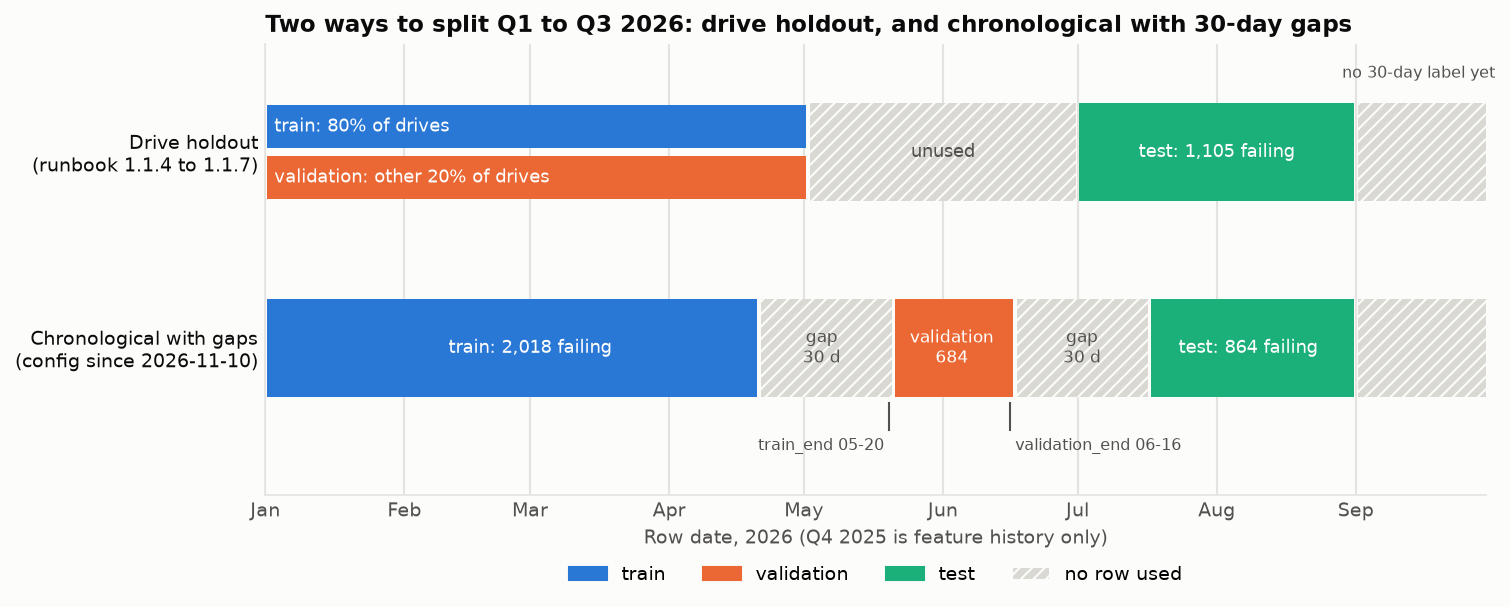
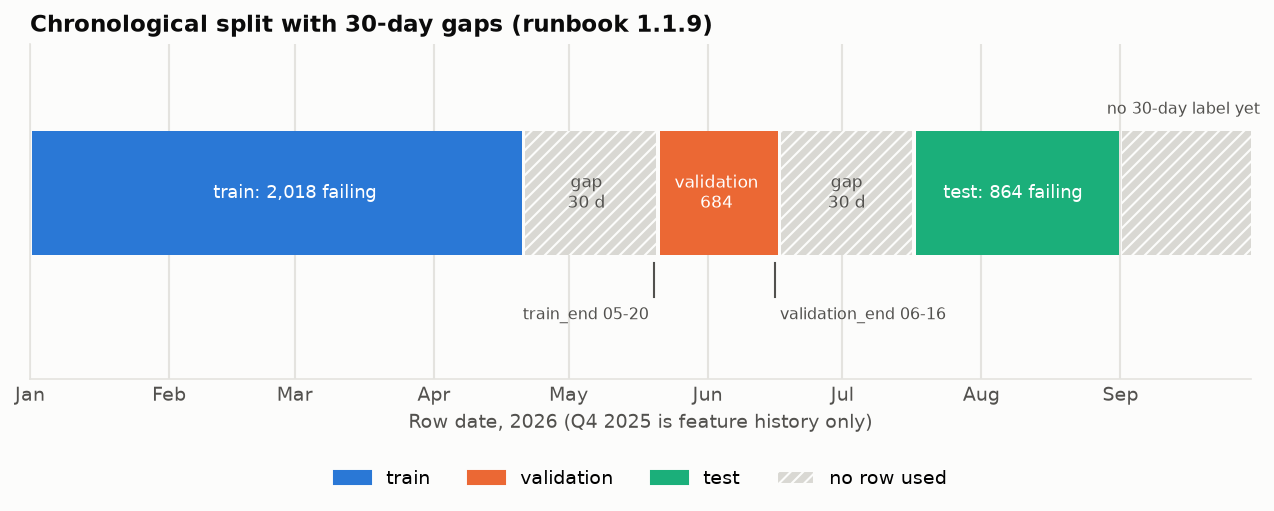
Figures: timeline shows only the chronological run (1.1.9); train figures and alt text relinked under docs/figures

diff --git a/scripts/plot_chrono_split.py b/scripts/plot_chrono_split.py
@@ -2,8 +2,8 @@
 
 Five figures, drawn from files the run already wrote (no model is scored, no test row is read):
 
-- `chrono_split_timeline.png`: the drive-holdout design of sections 1.1.4 to 1.1.7 against the
-  chronological split with gaps, on one date axis. Dates and failing-drive counts are the ones
+- `chrono_split_timeline.png`: the chronological split with gaps (runbook 1.1.9) on a date
+  axis. Dates and failing-drive counts are the ones
   in runbook 1.1.8 / 1.1.9 (counted from the 30-day label table on 2026-11-10).
 - `chrono_precision_recall.png`: precision against recall at the recall levels of
   `data/audit/stack_chrono_h30/tables.md` (test, drive level, mean of 3 seeds) for Stage 1 alone,
@@ -75,68 +75,37 @@ def _span(ax: plt.Axes, y: float, h: float, start: dt.date, end: dt.date, **kw) 
 
 
 def timeline(path: Path) -> None:
-    fig, ax = plt.subplots(figsize=(10.5, 3.9))
+    fig, ax = plt.subplots(figsize=(10.5, 2.9))
     _style(ax)
     ax.grid(axis="y", visible=False)
     ax.grid(axis="x", color=GRID, linewidth=1)
 
-    def hatched(y, h, start, end):
-        _span(ax, y, h, start, end, color=UNUSED, hatch="////", edgecolor=SURFACE)
+    def hatched(start, end):
+        _span(ax, 0, 0.5, start, end, color=UNUSED, hatch="////", edgecolor=SURFACE)
 
-    # Row 1: the drive-holdout design. Train and validation share dates (different drives).
-    y1 = 1.0
-    _span(ax, y1 + 0.13, 0.22, D(2026, 1, 1), D(2026, 5, 1), color=BLUE)
-    _span(ax, y1 - 0.13, 0.22, D(2026, 1, 1), D(2026, 5, 1), color=ORANGE)
-    hatched(y1, 0.5, D(2026, 5, 2), D(2026, 6, 30))
-    _span(ax, y1, 0.5, D(2026, 7, 1), D(2026, 8, 31), color=AQUA)
-    hatched(y1, 0.5, D(2026, 9, 1), D(2026, 9, 30))
-    ax.text(
-        D(2026, 1, 3), y1 + 0.13, "train: 80% of drives", va="center", fontsize=8.5, color="white"
-    )
-    ax.text(
-        D(2026, 1, 3),
-        y1 - 0.13,
-        "validation: other 20% of drives",
-        va="center",
-        fontsize=8.5,
-        color="white",
-    )
-    ax.text(D(2026, 6, 1), y1, "unused", ha="center", va="center", fontsize=8.5, color=INK_2)
-    ax.text(
-        D(2026, 8, 1),
-        y1,
-        "test: 1,105 failing",
-        ha="center",
-        va="center",
-        fontsize=8.5,
-        color="white",
-    )
-
-    # Row 2: the chronological split with gaps.
-    y2 = 0.0
-    _span(ax, y2, 0.5, D(2026, 1, 1), D(2026, 4, 20), color=BLUE)
-    hatched(y2, 0.5, D(2026, 4, 21), D(2026, 5, 20))
-    _span(ax, y2, 0.5, D(2026, 5, 21), D(2026, 6, 16), color=ORANGE)
-    hatched(y2, 0.5, D(2026, 6, 17), D(2026, 7, 16))
-    _span(ax, y2, 0.5, D(2026, 7, 17), D(2026, 8, 31), color=AQUA)
-    hatched(y2, 0.5, D(2026, 9, 1), D(2026, 9, 30))
+    _span(ax, 0, 0.5, D(2026, 1, 1), D(2026, 4, 20), color=BLUE)
+    hatched(D(2026, 4, 21), D(2026, 5, 20))
+    _span(ax, 0, 0.5, D(2026, 5, 21), D(2026, 6, 16), color=ORANGE)
+    hatched(D(2026, 6, 17), D(2026, 7, 16))
+    _span(ax, 0, 0.5, D(2026, 7, 17), D(2026, 8, 31), color=AQUA)
+    hatched(D(2026, 9, 1), D(2026, 9, 30))
     ax.text(
         D(2026, 3, 1),
-        y2,
+        0,
         "train: 2,018 failing",
         ha="center",
         va="center",
         fontsize=8.5,
         color="white",
     )
-    ax.text(D(2026, 5, 5), y2, "gap\n30 d", ha="center", va="center", fontsize=8, color=INK_2)
+    ax.text(D(2026, 5, 5), 0, "gap\n30 d", ha="center", va="center", fontsize=8, color=INK_2)
     ax.text(
-        D(2026, 6, 3), y2, "validation\n684", ha="center", va="center", fontsize=8, color="white"
+        D(2026, 6, 3), 0, "validation\n684", ha="center", va="center", fontsize=8, color="white"
     )
-    ax.text(D(2026, 7, 2), y2, "gap\n30 d", ha="center", va="center", fontsize=8, color=INK_2)
+    ax.text(D(2026, 7, 2), 0, "gap\n30 d", ha="center", va="center", fontsize=8, color=INK_2)
     ax.text(
         D(2026, 8, 8),
-        y2,
+        0,
         "test: 864 failing",
         ha="center",
         va="center",
@@ -149,26 +118,15 @@ def timeline(path: Path) -> None:
     ):
         ax.plot([day, day], [-0.28, -0.42], color=INK_2, linewidth=1)
         ax.text(day, -0.46, label, ha=align, va="top", fontsize=7.5, color=INK_2)
-
-    ax.text(
-        D(2026, 9, 15), y1 + 0.38, "no 30-day label yet", ha="center", fontsize=7.5, color=INK_2
-    )
-    ax.set_yticks([y1, y2])
-    ax.set_yticklabels(
-        [
-            "Drive holdout\n(runbook 1.1.4 to 1.1.7)",
-            "Chronological with gaps\n(config since 2026-11-10)",
-        ],
-        fontsize=9,
-        color=INK,
-    )
-    ax.set_ylim(-0.75, 1.55)
+    ax.text(D(2026, 9, 15), 0.32, "no 30-day label yet", ha="center", fontsize=7.5, color=INK_2)
+    ax.set_yticks([])
+    ax.set_ylim(-0.75, 0.6)
     ax.set_xlim(D(2026, 1, 1), D(2026, 9, 30))
     ax.set_xlabel("Row date, 2026 (Q4 2025 is feature history only)", fontsize=9, color=INK_2)
     ax.xaxis.set_major_locator(mdates.MonthLocator())
     ax.xaxis.set_major_formatter(mdates.DateFormatter("%b"))
     ax.set_title(
-        "Two ways to split Q1 to Q3 2026: drive holdout, and chronological with 30-day gaps",
+        "Chronological split with 30-day gaps (runbook 1.1.9)",
         loc="left",
         fontsize=11,
         color=INK,
@@ -182,7 +140,7 @@ def timeline(path: Path) -> None:
             Patch(facecolor=UNUSED, hatch="////", edgecolor=SURFACE, label="no row used"),
         ],
         loc="upper center",
-        bbox_to_anchor=(0.5, -0.12),
+        bbox_to_anchor=(0.5, -0.22),
         ncol=4,
         frameon=False,
         fontsize=9,

diff --git a/docs/figures/chrono_split/README.md b/docs/figures/chrono_split/README.md
@@ -6,8 +6,8 @@ drive level, 30-day horizon.
 
 | File | Source | What |
 |---|---|---|
-| `chrono_split_timeline.png`, `chrono_precision_recall.png`, `chrono_goal_validation_vs_test.png`, `chrono_base_rate_transfer.png`, `chrono_true_positives_isolated.png` | `scripts/plot_chrono_split.py`, from `data/audit/stack_chrono_h30/` and `data/audit/data_quality_reports/model_evaluation_report_chrono_h30.json` (no model is scored and no test row is read; `make plot-chrono-split` redraws them) | The two split designs on one date axis; precision against recall of Stage 1 and the three Stage 2 variants with the goal's region; precision at the 10% level on validation and test with each seed; base rates and precision of both designs; failing test drives isolated (count and share) by the Stage 1 net, Stage 1 alone, the LightGBM and Cox Stage 2 and the stack at the 10, 20 and 35% recall levels |
-| `model_h30_chrono_{test,validation}_{precision_recall,confusion}.png` | `data/audit/plots/train/chrono_h30/` (`make train`, tag `chrono_h30`, MLflow `6ea7a5bcfb954deeb4a4208e4d802744`, frozen in `frozen_runs/`) | The LightGBM two-stage model (Stage 1 + LightGBM Stage 2): the drive-level precision-recall curve (solid) and the drive-day curve (dashed) with the primary threshold, the action tiers and the top-K points marked; confusion matrices at the primary threshold and each tier |
+| `chrono_split_timeline.png`, `chrono_precision_recall.png`, `chrono_goal_validation_vs_test.png`, `chrono_base_rate_transfer.png`, `chrono_true_positives_isolated.png` | `scripts/plot_chrono_split.py`, from `data/audit/stack_chrono_h30/` and `data/audit/data_quality_reports/model_evaluation_report_chrono_h30.json` (no model is scored and no test row is read; `make plot-chrono-split` redraws them) | The chronological split (1.1.9) on a date axis; precision against recall of Stage 1 and the three Stage 2 variants with the goal's region; precision at the 10% level on validation and test with each seed; base rates and precision of both designs; failing test drives isolated (count and share) by the Stage 1 net, Stage 1 alone, the LightGBM and Cox Stage 2 and the stack at the 10, 20 and 35% recall levels |
+| `model_h30_chrono_{train,test,validation}_{precision_recall,confusion}.png` | `data/audit/plots/train/chrono_h30/` (`make train`, tag `chrono_h30`, MLflow `6ea7a5bcfb954deeb4a4208e4d802744`, frozen in `frozen_runs/`) | The LightGBM two-stage model (Stage 1 + LightGBM Stage 2): the drive-level precision-recall curve (solid) and the drive-day curve (dashed) with the primary threshold, the action tiers and the top-K points marked; confusion matrices at the primary threshold and each tier |
 | `stack_chrono_precision_recall.png`, `stack_chrono_confusion.png` | `data/audit/stack_chrono_h30/figures/cascade_*_seed0.png` (MLflow `08aedf53015243a3a12b467468421163`) | Stage 1 alone against the 0.5 and 0.8 LightGBM nets, Cox and the stack, **seed 0 only** (the tables average three seeds); confusion matrices at the 10% and 60% recall levels |
 
 Colours are the reference palette of the dataviz skill: train blue, validation orange, test aqua in every

diff --git a/docs/model_status_and_runbook.md b/docs/model_status_and_runbook.md
@@ -1219,7 +1219,7 @@ failing drives at 30 days), and continuity with every frozen run.
 
 #### The alternative: a chronological split with gaps (the config since 2026-11-10; run in Section 1.1.9)
 
-![The two split designs on one date axis: drive holdout against chronological with 30-day gaps](figures/chrono_split/chrono_split_timeline.png)
+![The chronological split with 30-day gaps on a date axis: train, gap, validation, gap, test](figures/chrono_split/chrono_split_timeline.png)
 
 Train, validation and test are consecutive periods, with a gap of one label horizon at each
 boundary. A row's 30-day label is decided by events up to 30 days later, so a boundary is clean only
@@ -1355,7 +1355,7 @@ training and no test row was read by any freeze.
 Row dates; a row's 30-day label looks 30 days ahead. Failing drives are drives with any positive 30-day
 label in the window, counted from the label table on 2026-11-10.
 
-![The two split designs on one date axis: drive holdout against chronological with 30-day gaps](figures/chrono_split/chrono_split_timeline.png)
+![The chronological split with 30-day gaps on a date axis: train, gap, validation, gap, test](figures/chrono_split/chrono_split_timeline.png)
 
 | Role | Row dates | Days | Drives | Failing drives | Used for |
 |---|---|---|---|---|---|
@@ -1677,7 +1677,7 @@ those rows. They are not evidence of performance; the validation and test figure
 
 | Precision-recall (train, in-sample) | Confusion matrices (train, in-sample) |
 |---|---|
-| ![Chronological run: train precision-recall (in-sample)](../frozen_runs/6ea7a5bcfb954deeb4a4208e4d802744/figures/train_precision_recall.png) | ![Chronological run: train confusion matrices (in-sample)](../frozen_runs/6ea7a5bcfb954deeb4a4208e4d802744/figures/train_confusion.png) |
+| ![Chronological run: train precision-recall (in-sample)](figures/chrono_split/model_h30_chrono_train_precision_recall.png) | ![Chronological run: train confusion matrices (in-sample)](figures/chrono_split/model_h30_chrono_train_confusion.png) |
 
 ##### What it shows
 

diff --git a/docs/dataset_strategy.md b/docs/dataset_strategy.md
@@ -668,7 +668,7 @@ Section 9.1 is the principle; this is what was run. Dates are row dates; a row's
 | Drive holdout, Q3 test (runs of 2026-11-06 to 11-07; frozen run `c459046e`) | 80% of drives, 01-01 to 05-01 | the other 20% of drives, same dates | Q3 from 07-01, to 08-31 / 08-17 / 08-01 for 30 / 44 / 60 days | none needed between train and validation; 60 days left unused before Q3 | runbook 1.1.4 to 1.1.7 |
 | **Chronological with gaps (the config since 2026-11-10; run 2026-11-10, goal not met)** | 01-01 to 04-20 | 05-21 to 06-16 | 07-17 to 08-31 | 30-day gap at both boundaries | runbook 1.1.8 |
 
-![The two split designs on one date axis: drive holdout against chronological with 30-day gaps](figures/chrono_split/chrono_split_timeline.png)
+![The chronological split with 30-day gaps on a date axis: train, gap, validation, gap, test](figures/chrono_split/chrono_split_timeline.png)
 
 **The rules a split must satisfy to keep its parts separate**
 

diff --git a/docs/project_report.md b/docs/project_report.md
@@ -359,7 +359,7 @@ Q4 2025 rows are feature history only. Failing drives are those with any positiv
 | Gap | 06-17 to 07-16 | | | validation labels resolve; no row used |
 | Test | 2026-07-17 to 08-31 | 368,124 | 864 | ends 30 days before the data does |
 
-![The two split designs on one date axis](figures/chrono_split/chrono_split_timeline.png)
+![The chronological split with 30-day gaps on a date axis: train, gap, validation, gap, test](figures/chrono_split/chrono_split_timeline.png)
 
 *Figure 30. The drive-holdout design of the previous model (train and validation share 2026-01-01 to 05-01, as 80%
 and 20% of drives; 60 days unused; test Q3) against the chronological design (30-day gaps, hatched, at each
